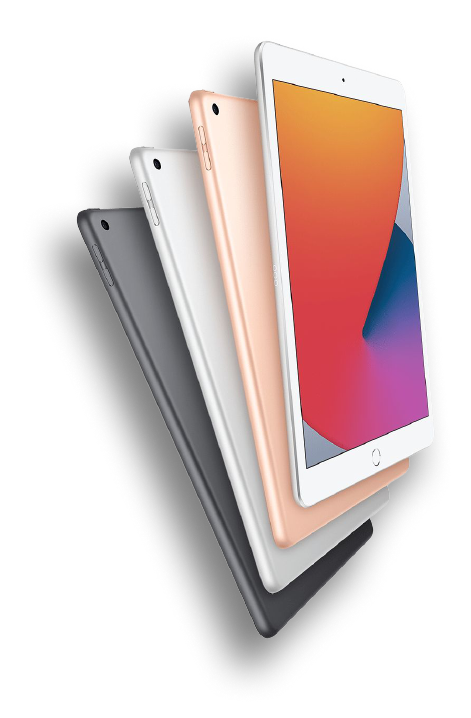
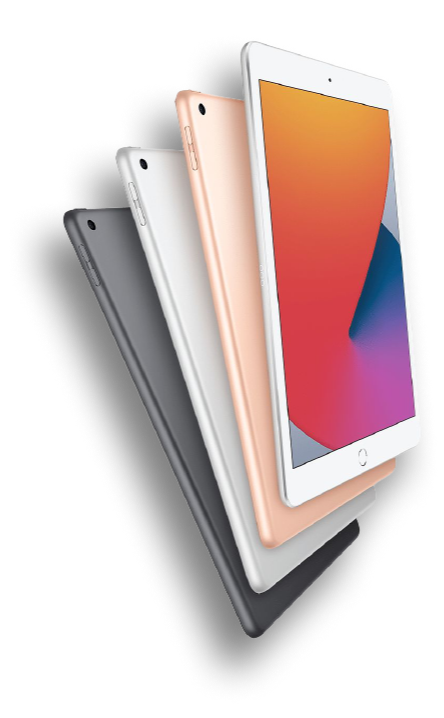
Layout changed

diff --git a/index.html b/index.html
@@ -4,98 +4,48 @@
     <meta charset="UTF-8" />
     <meta http-equiv="X-UA-Compatible" content="IE=edge" />
     <meta name="viewport" content="width=device-width, initial-scale=1.0" />
-    <title>iPad Landing Page by Thxjao</title>
-    <link rel="stylesheet" href="https://cdnjs.cloudflare.com/ajax/libs/font-awesome/4.7.0/css/font-awesome.min.css">
-    <link rel="icon" href="./img/apple.svg"/>
+    <title>iPad Product Landing Page</title>
+    <link rel="shortcut icon" href="./img/apple.svg" />
     <link rel="stylesheet" href="./style/style.css" />
     <link rel="preconnect" href="https://fonts.gstatic.com" />
     <link
-      href="https://fonts.googleapis.com/css2?family=Roboto+Slab&display=swap"
+      href="https://fonts.googleapis.com/css2?family=Nunito:wght@400;700&family=Roboto+Slab:wght@300;500&family=Roboto:wght@300;400;700&display=swap"
       rel="stylesheet"
+    />
+    <link
+      rel="stylesheet"
+      href="https://cdnjs.cloudflare.com/ajax/libs/font-awesome/5.15.3/css/all.min.css"
     />
   </head>
   <body>
-    <header id="header" class="header container">
-      <a href="#"><img src="./img/apple.svg" alt="Apple" id="header-img" /></a>
-      <nav id="nav-bar">
-        <ul>
-          <li><a class="nav-link nunito" href="#header">Obter</a></li>
-          <li><a class="nav-link nunito" href="#sobre">Sobre</a></li>
-          <li><a class="nav-link nunito" href="#qualidade">Qualidade</a></li>
-          <li><a class="nav-link nunito" href="#services">Serviços</a></li>
-        </ul>
-      </nav>
-    </header>
-    <main class="main container">
-      <div class="image-div col">
-        <img src="./img/main-image.png" alt="iPad" />
-      </div>
-      <div class="form-div col">
-        <h1 class="slab">Gostaria de</h1>
-        <h3 class="slab">adquirir o seu agora mesmo?</h3>
-        <form action="https://www.freecodecamp.org/email-submit" id="form">
-          <input
-            type="email"
-            id="email"
-            placeholder="Insira seu email"
-            class="main-input"
-          />
-          <input
-            type="submit"
-            id="submit"
-            class="main-btn"
-            placeholder="Enviar"
-          />
-        </form>
-      </div>
+    <header>
+    <nav class="container">
+      <div class="logo"><img src="./img/apple.svg" alt="Apple" /></div>
+      <ul>
+        <li><a href="#">Obter</a></li>
+        <li><a href="#">Sobre</a></li>
+        <li><a href="#">Qualidade</a></li>
+        <li><a href="#">Serviços </a></li>
+      </ul>
+      <input type="checkbox" id="check">
+      <label for="check" class="checkbtn">
+        <i class="fas fa-bars"></i>
+      </label>
+    </nav>
+    </header>   
+    <main class="container">
+        <div class="main-image-div">
+            <img src="./img/main-image.png" alt="">
+        </div>
+        <div class="main-form-div">
+            <h1>Gostaria de</h1>
+            <h3>adquirir o seu agora mesmo?</h3>
+            <input type="email" class="email" placeholder="Insira seu email">
+            <div class="main-button-container">
+            <input type="button" class="main-btn" value="Enviar">
+            </div>
+        </div>
     </main>
-    <section id="sobre" class="sobre">
-      <div class="container">
-        <div class="sobre-texto col">
-          <h2 class="nunito">Sobre</h2>
-          <p class="slab">
-            Contrary to popular belief, Lorem Ipsum is not simply random text.
-            It has roots in a piece of classical Latin literature from 45 BC,
-            making it over 2000 years old. Richard McClintock, a Latin professor
-            at Hampden-Sydney College in Virginia, looked up one of the more
-            obscure Latin words, consectetur, from a Lorem Ipsum passage, and
-            going through the cites of the word.
-          </p>
-        </div>
-        <div class="sobre-video col">
-          <video src="./video/applevideo.mp4" id="video" width="440px" controls></video>
-          <button>Saiba Mais</button>
-        </div>
-      </div>
-    </section>
-    <section id="qualidade" class="qualidade container">
-        <div class="phone-image col">
-            <img src="./img/qualidade-image.png" alt="iPad Pro">
-        </div>
-        <div class="qualidade-lista col">
-            <h2 class="roboto">Qualidade</h2>
-            <h4 class="nunito">Naquilo que faz</h4>
-            <ul>
-                <li>Design</li>
-                <li>Durabilidade</li>
-                <li>Portabilidade</li>
-            </ul>
-        </div>
-    </section>
-    <footer id="services" class="footer">
-      <div class="container">
-        <div class="footer-texto">
-          <h2 class="roboto">Serviços</h2>
-          <h4 class="roboto">Venha conferir a gama de serivços e apps disponíveis na nossa plataforma.</p>
-        </div>
-        <button>Conferir Apple Store</button>
-        <div class="footer-image-container">
-          <img src="./img/footer-image.png" alt="Aplicativos">
-        </div>
-      </div>
-    </footer>
-    <script>
-      
-      </script>
+    <section class="about"></section>
   </body>
 </html>

diff --git a/style/style.css b/style/style.css
@@ -1,0 +1,259 @@
+html, body, div, span, applet, object, iframe,
+h1, h2, h3, h4, h5, h6, p, blockquote, pre,
+a, abbr, acronym, address, big, cite, code,
+del, dfn, em, img, ins, kbd, q, s, samp,
+small, strike, strong, sub, sup, tt, var,
+b, u, i, center,
+dl, dt, dd, ol, ul, li,
+fieldset, form, label, legend,
+table, caption, tbody, tfoot, thead, tr, th, td,
+article, aside, canvas, details, embed, 
+figure, figcaption, footer, header, hgroup, 
+menu, nav, output, ruby, section, summary,
+time, mark, audio, video {
+	margin: 0;
+	padding: 0;
+	border: 0;
+	font-size: 100%;
+	font: inherit;
+	vertical-align: baseline;
+}
+/* HTML5 display-role reset for older browsers */
+article, aside, details, figcaption, figure, 
+footer, header, hgroup, menu, nav, section {
+	display: block;
+}
+body {
+	line-height: 1;
+}
+ol, ul {
+	list-style: none;
+}
+blockquote, q {
+	quotes: none;
+}
+blockquote:before, blockquote:after,
+q:before, q:after {
+	content: '';
+	content: none;
+}
+table {
+	border-collapse: collapse;
+	border-spacing: 0;
+}
+
+:root {
+	--nunito: 'Nunito', sans-serif;
+	--slab: 'Roboto Slab', serif;
+	--roboto: 'Roboto', sans-serif;
+}
+
+* {
+    box-sizing: border-box;
+}
+
+body {
+    width: 100vw;
+    max-width: 100%;
+}
+
+img {
+	display: block;
+	max-width: 100%;
+}
+
+/* Starting coding */
+
+.container {
+	max-width: 1200px;
+	display: flex;
+	margin: 0 auto;
+	padding: 0 10px;
+}
+
+/* Header */
+
+header {
+	overflow: hidden;
+	position: fixed;
+	top: 0;
+	width: 100%;
+	background: white;
+}
+
+
+/* burguer */
+
+.checkbtn{
+	font-size: 30px;
+	color: black;
+	float: right;
+	margin: auto;
+	cursor: pointer;
+	margin-right: 20px;
+	display: none;
+  }
+
+  #check{
+	display: none;
+  }
+
+
+/* nav*/
+
+nav {
+	height: 8vh;
+}
+
+nav div.logo {
+	flex: 1;
+	display: flex;
+	align-items: center;
+	padding: 10px;
+}
+
+nav ul {
+	flex: 1;
+	display: flex;
+	justify-content: space-around;
+	align-items: center;
+	text-decoration: none;
+}
+
+nav ul li a{
+	text-decoration: none;
+	color: black;
+	font-size: 20px;
+	font-size: 1.25em;
+	font-family: var(--nunito);
+	font-weight: bold;
+}
+
+@media (max-width: 1062px) {
+
+	.container {
+		padding: 0px;
+	}
+
+	.checkbtn {
+		display: block;
+	}
+
+	nav ul {
+		position: fixed;
+		width: 100%;
+		height: 100vh;
+		background: white;
+		top: 8vh;
+		display: none;
+		flex-direction: column;
+		padding-bottom: 8vh;
+		transition: all .5s;
+	}
+
+	#check:checked ~ ul{
+		display: flex;
+	  }
+	.container {
+		padding: 0px;
+	}
+}
+
+/* Main */
+
+main.container {
+	height: 600px;
+}
+
+main div.main-image-div {
+	margin-top: 8vh;
+	display: flex;
+	justify-content: center;
+	align-items: center;
+	flex: 1;
+}
+
+main div.main-form-div {
+	flex: 1;
+	margin-top: 8vh;
+	padding-left: 20px; 
+	padding-right: 100px;
+	padding-top: 90px;
+}
+
+main div.main-form-div h1 {
+	font-family: var(--slab);
+	font-size: 68px;
+	letter-spacing: 7.82px;
+	font-weight: 600;
+	line-height: 1.5em;
+}
+
+main div.main-form-div h3 {
+	font-family: var(--slab);
+	font-size: 44px;
+	letter-spacing: 1.1px;
+	font-weight: 300;
+	line-height: 1.5em;
+}
+
+main div.main-form-div input.email {
+	margin-top: 20px;
+	width: 100%;
+	background-color: #C4C4C4;
+	font-family: var(--slab);
+	font-weight: 600;
+	font-size: 20px;
+	border: none;
+	line-height: 1.5em;
+	text-align: center;
+	height: 50px;
+	border-radius: 10px;
+}
+
+main div.main-form-div div input.main-btn {
+	background-color: black;
+	border: none;
+	color: white;
+	width: 175px;
+	height: 60px;
+	border-radius: 20px;
+	font-family: var(--slab);
+	font-size: 20px;
+	font-weight: 400;
+}
+
+div.main-button-container {
+	text-align: center;
+	padding-top: 20px;
+}
+
+@media (max-width: 1062px) {
+	main.container {
+		flex-direction: column;
+		height: 100%;
+	}
+	main div.main-form-div {
+		padding: 0px 20px;
+		margin: 0px;
+		display: flex;
+		flex-direction: column;
+		align-items: center;
+	}
+	main div.main-form-div input.email {
+		max-width: 480px;
+	}
+	main div.main-form-div div input.main-btn {
+		margin-bottom: 40px;
+		margin-top: 20px;
+	}
+}
+
+
+
+/* Section about */
+
+section.about {
+	height: 100vh;
+	background-color: lightgreen;
+}
